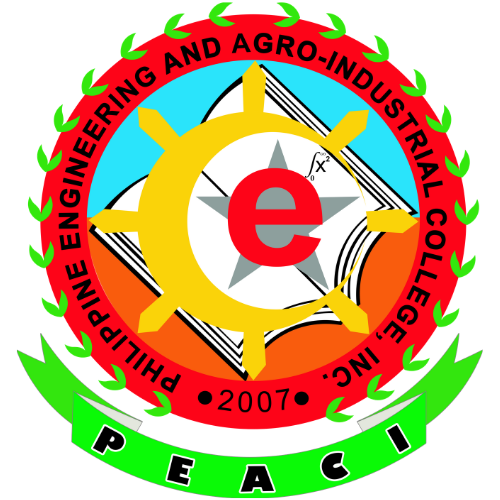
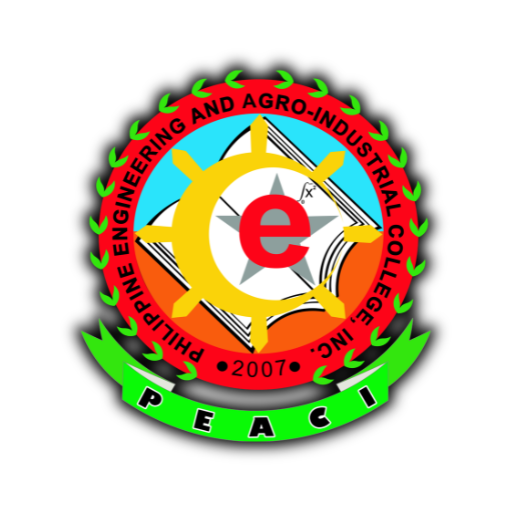
Add files via upload

diff --git a/index.html b/index.html
@@ -239,7 +239,7 @@
         <div class="login-card">
             <div class="login-header">
                 <!-- Logo -->
-                <img src="PEACI.png" alt="PEACI Logo">
+                <img src="PEACI-LOGO.png" alt="PEACI Logo">
                 <h1>STUDENT PORTAL</h1>
                 <p>Welcome to the Student Information System</p>
             </div>
